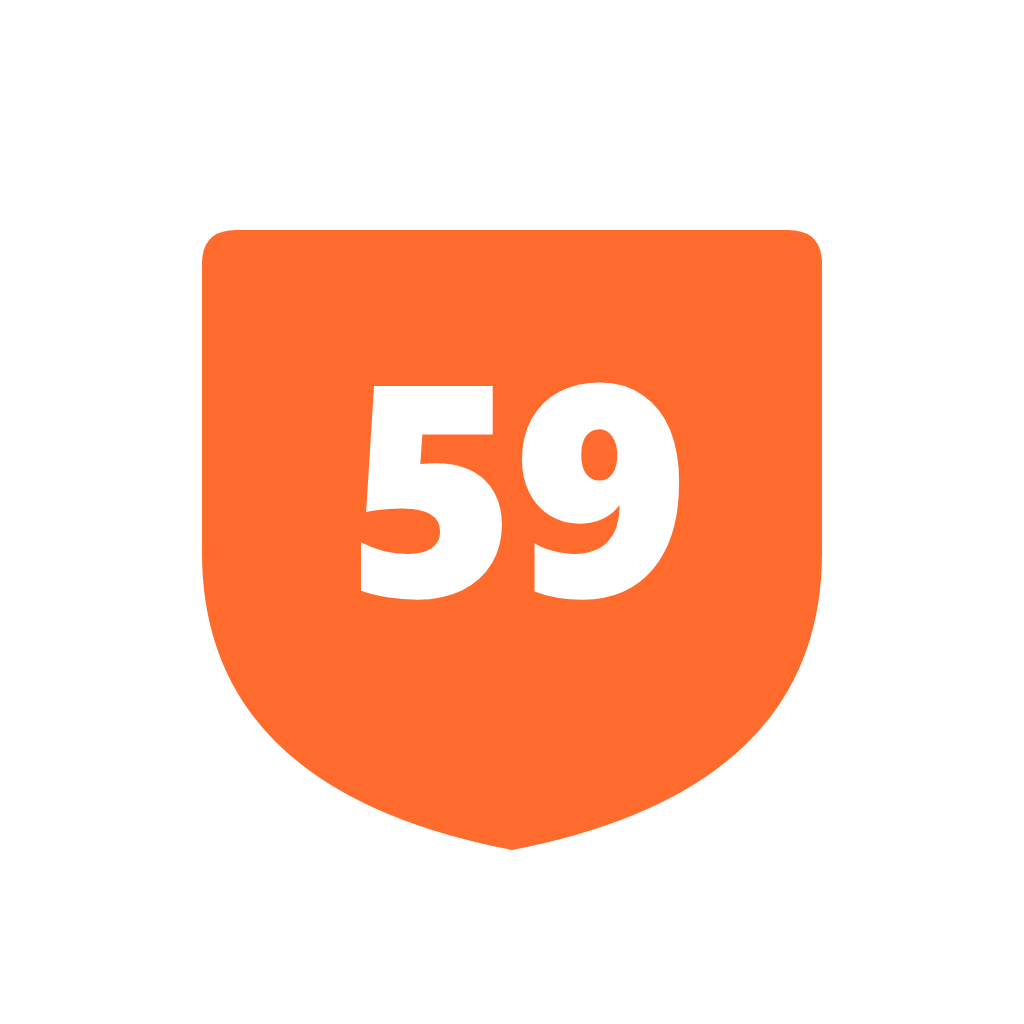
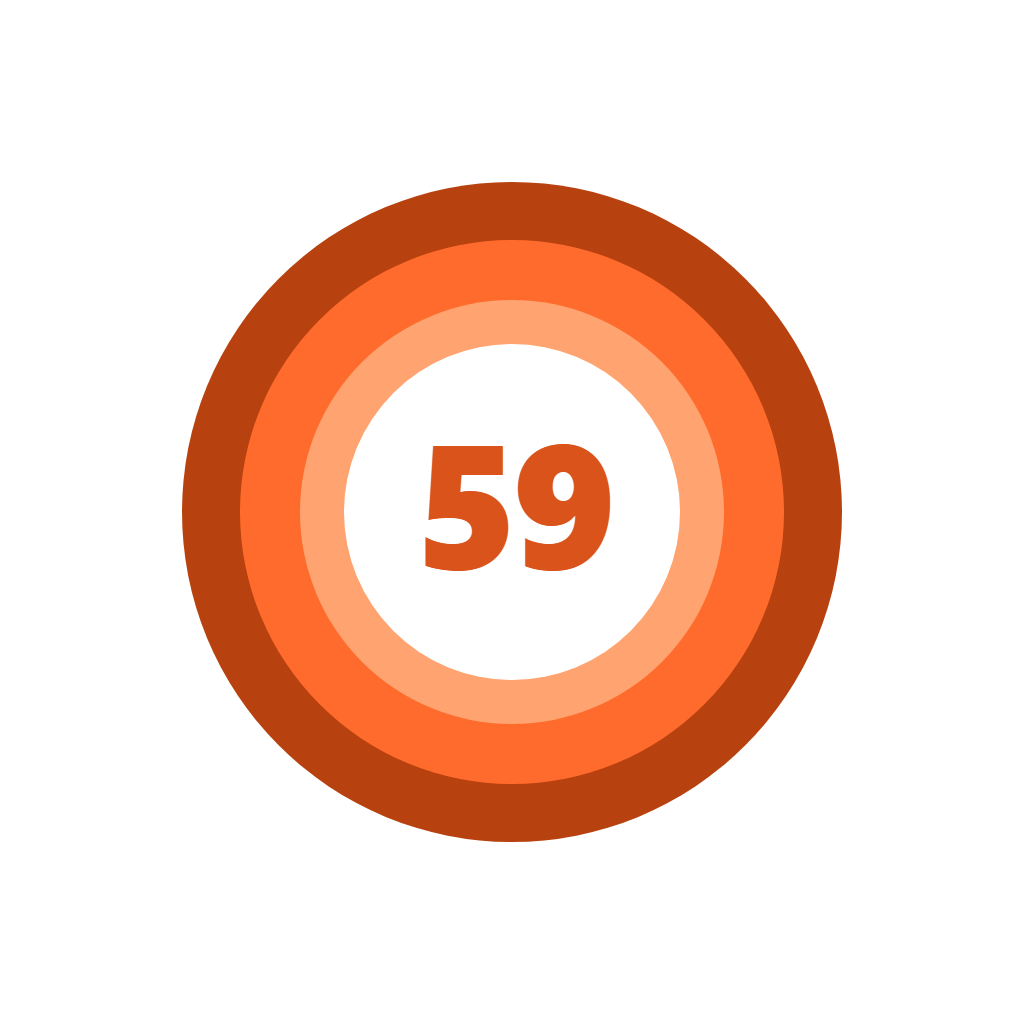
feat: 방패를 원형 동심원으로 — 중앙 작은 원에 59
동심원은 과녁·로델의 흔한 형식이라 그 자체는 문제가 없다.
피해야 하는 것은 "빨강-흰-파랑 띠 + 별" 이라는 특정 배색이고,
우리는 주황 계열 + 59 다.

입체감은 그라데이션이 아니라 명암 4단으로 만들었다.
짙은 테 #B8420F → #FF6B2C → 밝은 주황 #FFA470 → 흰 중앙.
그라데이션 안은 32px 아래에서 뭉개져 효과가 없고, 앱 전체가
플랫인데 아이콘만 광택이 돌면 따로 논다.

중앙 원을 146 → 168 로 키워 48dp 에서 59 판독을 얻었다.
그 아래에서는 59 가 사라지지만 "겹 있는 주황 원" 으로 식별된다.

과녁으로 읽힐 여지가 남아 있고, 그걸 막는 것이 중앙의 59 다
(과녁에는 숫자가 없다). 59 없는 변형은 만들지 않는다.

Changed region(s): [[0.1562, 0.1562, 0.8438, 0.8438], [0.2812, 0.2812, 0.7188, 0.7188]]

diff --git a/scripts/ogu_shield.py b/scripts/ogu_shield.py
@@ -46,74 +46,79 @@ def wrap(body, bg=None):
             f'width="{W}" height="{W}">{rect}{body}</svg>')
 
 
-# ── 방패 실루엣 ────────────────────────────────────────────────
-# 원반에 눈금을 두르면 그게 곧 시계 문자판이다 (1차 시안의 실패).
-# 방패는 "위가 넓고 아래로 모이는" 실루엣이라 원과 즉시 구분된다.
-SW, TOP, BOT = 620, 230, 850          # 폭 · 윗변 · 아래 꼭지
+# ── 원형 방패 ──────────────────────────────────────────────────
+# 동심원 = 과녁·로델의 형식이다. 흔한 형식 자체는 문제가 없고,
+# 피해야 하는 것은 "빨강-흰-파랑 띠 + 별" 이라는 특정 배색이다.
+# 우리는 주황 계열 + 59.
+#
+# 입체감은 그라데이션이 아니라 띠의 명암 단계로 만든다 —
+# 아이콘이 작아지면 그라데이션은 뭉개지고 단계는 남는다.
+LIGHT = '#FFA470'                      # 하이라이트용 밝은 주황
+SHADE = '#B8420F'                      # 그늘용 짙은 주황
+
+R1, R2, R3, R4 = 330, 266, 206, 146    # 바깥 → 중앙. 마지막이 59 가 들어가는 원
 
 
-def shield_path(scale=1.0):
-    w, top, bot = SW * scale, C - (C - TOP) * scale, C + (BOT - C) * scale
-    l, r = C - w / 2, C + w / 2
-    k = top + (bot - top) * 0.52      # 옆구리가 꺾이는 높이
-    return (f'M {l:.1f} {top + 34:.1f} '
-            f'Q {l:.1f} {top:.1f} {l + 34:.1f} {top:.1f} '
-            f'L {r - 34:.1f} {top:.1f} '
-            f'Q {r:.1f} {top:.1f} {r:.1f} {top + 34:.1f} '
-            f'L {r:.1f} {k:.1f} '
-            f'Q {r:.1f} {bot - 60:.1f} {C:.1f} {bot:.1f} '
-            f'Q {l:.1f} {bot - 60:.1f} {l:.1f} {k:.1f} Z')
+def rings(colors):
+    return ''.join(f'<circle cx="{C}" cy="{C}" r="{r}" fill="{c}"/>'
+                   for r, c in zip((R1, R2, R3, R4), colors))
 
 
-def notch(scale=1.0, color=None):
-    """59번째 자리 — 윗변 왼쪽에서 1/60 만큼 안쪽. 16px 에서 유일하게 살아남은 표시"""
-    w = SW * scale
-    top = C - (C - TOP) * scale
-    x = C - w / 2 + w * 0.22
-    return (f'<rect x="{x:.1f}" y="{top - 44:.1f}" width="{w * 0.075:.1f}" height="{w * 0.30:.1f}" '
-            f'rx="{w * 0.037:.1f}" fill="{color or ORANGE}"/>')
-
-
-# 문장(紋章) — 방패는 면만으로는 아무 말도 하지 않는다.
-# 59 를 넣는다. 런처는 48dp 이상이라 실제 사용 크기에서 또렷하게 읽힌다.
-# ※ 지금은 시스템 폰트로 그린다. 방향이 정해지면 패스로 떠서 정본에 넣는다.
-def num(scale=1.0, color=None, dy=0.0):
-    size = 300 * scale
-    y = C + size * 0.34 + dy
-    return (f'<text x="{C}" y="{y:.1f}" font-family="Segoe UI Black, Arial Black, sans-serif" '
+def num(size, color, dy=0.0):
+    """59 — 지금은 시스템 폰트. 확정되면 패스로 떠서 정본에 넣는다"""
+    return (f'<text x="{C}" y="{C + size * 0.345 + dy:.1f}" '
+            f'font-family="Segoe UI Black, Arial Black, sans-serif" '
             f'font-size="{size:.0f}" font-weight="900" text-anchor="middle" '
-            f'letter-spacing="-10" fill="{color or WHITE}">59</text>')
+            f'letter-spacing="-8" fill="{color}">59</text>')
 
 
-# ── A · 방패 + 59 ──────────────────────────────────────────────
+# A 안을 다듬는다. 세 가지가 걸렸다:
+#   ① 동심원만으로는 "과녁" 으로 읽힌다 — 방패로 보이려면 테가 솟아야 한다
+#   ② 중앙 원이 작아 59 가 32px 에서 먼저 죽는다 — 원을 키운다
+#   ③ 앱이 플랫인데 혼자 입체면 튄다 — 그라데이션 대신 명암 단계로만
+
+R1, R2, R3, R4 = 330, 272, 212, 168    # 중앙 원을 146 → 168 로 키웠다
+
+
+# ── A · 명암 4단 (기본) ────────────────────────────────────────
 def variant_a():
-    return f'<path d="{shield_path()}" fill="{ORANGE}"/>' + num(1.0, WHITE, -18)
+    return rings((SHADE, ORANGE, LIGHT, WHITE)) + num(176, DEEP, -4)
 
 
-# ── B · 겹친 방패 + 59 ─────────────────────────────────────────
-# 바깥 테두리가 한 겹 더 있어 다른 주황 아이콘과 구분된다.
+# ── B · 금속 테 ────────────────────────────────────────────────
+# 바깥에 짙은 선을 한 겹 두르면 면이 아니라 "판" 으로 보인다. 과녁과 갈리는 지점.
 def variant_b():
-    return (f'<path d="{shield_path()}" fill="{ORANGE}"/>'
-            f'<path d="{shield_path(0.78)}" fill="{DEEP}"/>'
-            + num(0.82, WHITE, -8))
+    return (f'<circle cx="{C}" cy="{C}" r="{R1}" fill="{SHADE}"/>'
+            f'<circle cx="{C}" cy="{C}" r="{R1 - 16}" fill="{ORANGE}"/>'
+            f'<circle cx="{C}" cy="{C}" r="{R2}" fill="{LIGHT}"/>'
+            f'<circle cx="{C}" cy="{C}" r="{R3}" fill="{ORANGE}"/>'
+            f'<circle cx="{C}" cy="{C}" r="{R4}" fill="{WHITE}"/>'
+            + num(176, DEEP, -4))
 
 
-# ── C · 테두리 방패 + 59 ───────────────────────────────────────
+# ── C · 위쪽 빛 한 줄 ──────────────────────────────────────────
+# 그라데이션 없이 입체. 각 띠 위쪽에만 밝은 호를 얹는다 — 플랫을 깨지 않는다.
 def variant_c():
-    return (f'<path d="{shield_path()}" fill="{WHITE}" stroke="{ORANGE}" stroke-width="56" '
-            f'stroke-linejoin="round"/>' + num(0.92, ORANGE, -14))
+    p = [rings((SHADE, ORANGE, LIGHT, WHITE))]
+    for r in (R1 - 14, R2 - 14):
+        x0, y0 = pol(300, r)
+        x1, y1 = pol(60, r)
+        p.append(f'<path d="M {x0:.1f} {y0:.1f} A {r} {r} 0 0 1 {x1:.1f} {y1:.1f}" '
+                 f'fill="none" stroke="{WHITE}" stroke-opacity="0.34" stroke-width="18" '
+                 f'stroke-linecap="round"/>')
+    p.append(num(176, DEEP, -4))
+    return ''.join(p)
 
 
-# ── D · 방패 + 59 + 노치 ───────────────────────────────────────
-# 59 가 안 읽히는 16px 에서도 "윗변에 한 군데가 다른 방패" 는 남는다.
+# ── D · 중앙만 짙게 ────────────────────────────────────────────
+# 59 를 흰 글자로. 중앙이 어두우면 시선이 거기 멈춘다.
 def variant_d():
-    return (f'<path d="{shield_path()}" fill="{ORANGE}"/>' + num(0.94, WHITE, -4)
-            + notch(1.0, DEEP))
+    return (rings((SHADE, ORANGE, LIGHT, DEEP)) + num(176, WHITE, -4))
 
 
 VARIANTS = {'a': variant_a, 'b': variant_b, 'c': variant_c, 'd': variant_d}
-TITLE = {'a': 'A  shield + 59', 'b': 'B  double shield + 59',
-         'c': 'C  outlined + 59', 'd': 'D  shield + 59 + notch'}
+TITLE = {'a': 'A  4 steps', 'b': 'B  metal rim',
+         'c': 'C  top light', 'd': 'D  dark center'}
 SIZES = (96, 48, 32, 16)
 
 

diff --git a/brand/README.md b/brand/README.md
@@ -10,7 +10,10 @@ ogu-shield.png      1024 미리보기
 
 ## 왜 이 모양인가
 
-방패 하나에 **59**. 저쪽이 별이면 우리는 59다.
+원형 방패에 동심원 넷, 중앙 작은 원에 **59**. 저쪽이 별이면 우리는 59다.
+
+동심원 자체는 과녁·로델의 흔한 형식이라 문제가 없다. 피해야 하는 것은
+**빨강-흰색-파랑 띠 + 별**이라는 특정 배색이고, 우리는 주황 계열 + 59다.
 마블 형상은 닮게 만들지 않는다 — 상표이자 저작물이고, 스토어 게시 중단과
 상표 등록 거절이 실제로 온다. 가져온 것은 형식(방패 + 문장)뿐이다.
 
@@ -27,15 +30,23 @@ ogu-shield.png      1024 미리보기
 |---|---|
 | 눈금 60개 두른 원반 | **그게 곧 시계 문자판이다.** 네 안이 전부 "주황 다이얼" 이라 구분도 안 됐다 |
 | 눈금 링(면 없음) | 16px 에서 전부 소멸 |
-| 59/60 호 | 1/60 = 6도. 작은 크기에서 안 보인다. 흰 호가 방패 윤곽과 겹쳐 사라졌다 |
+| 59/60 호 | 1/60 = 6도. 작은 크기에서 안 보인다. 흰 호가 윤곽과 겹쳐 사라졌다 |
 | 노치(돌기) | 32px 아래에서 흠집·자물쇠 고리로 보인다. 59 가 있으면 중복이다 |
-| 테두리만 (속 빈 것) | 흰 테마 런처에서 방패가 사라진다 |
-| 겹친 방패 | 32px 부터 안쪽 테두리가 59 와 뭉친다 |
+| 방패형(아래 뾰족) | 원형으로 방향 변경 |
+| 흰 띠 교차 | 띠가 넓어 **과녁**으로 읽힌다. 흰 띠가 흰 배경에서 구멍처럼 보인다 |
+| 그라데이션 입체 | 앱 전체가 플랫인데 아이콘만 광택이 돌면 따로 논다. 32px 이하에서 뭉개져 효과도 없다 |
+| 얇은 금속 테 | 32px 부터 선이 사라져 기본안과 구분 안 됨 |
+| 중앙 짙게 + 흰 59 | 판독성은 가장 좋지만 중앙이 "구멍" 으로 보인다 |
+
+**입체감은 그라데이션이 아니라 명암 4단으로 만든다.**
+짙은 테 `#B8420F` → 주황 `#FF6B2C` → 밝은 주황 `#FFA470` → 흰 중앙.
+그라데이션은 작아지면 뭉개지고 단계는 남는다. 플랫도 깨지 않는다.
 
 ## 확인한 것
 
 - **런처 마스크 4종**(원·스퀴클·둥근네모·사각) 전부 잘리는 곳 없음
-- 72/48/32/24dp 에서 실루엣 유지. 48dp 이상에서 **59 가 또렷하게 읽힌다**
+- 72/48/32/24dp 에서 실루엣 유지. **48dp 에서 59 판독** (중앙 원을 146 → 168 로 키워서 얻었다)
+- 32px 아래에서 59 는 사라지지만 "겹 있는 주황 원" 으로 식별된다
 - 흰 배경 · 어두운 배경 · 흑백 통과
 
 ## 아직 남은 것
@@ -44,7 +55,8 @@ ogu-shield.png      1024 미리보기
    지금 상태로는 다른 기계에서 다른 모양이 나온다
 2. **알림 아이콘(24dp)** 은 안드로이드가 단색 실루엣으로 바꾼다 →
    59 없는 방패 실루엣만 따로 필요
-3. 방패 어깨가 단순해 "라벨·태그" 로도 보인다. 비례 조정 여지
+3. **과녁으로 읽힐 여지가 남아 있다.** 중앙의 59 가 그걸 막는다 — 과녁에는 숫자가 없다.
+   59 를 빼면 즉시 과녁이 되므로, 59 없는 변형을 만들지 않는다
 
 ## 하지 않는 것
 
